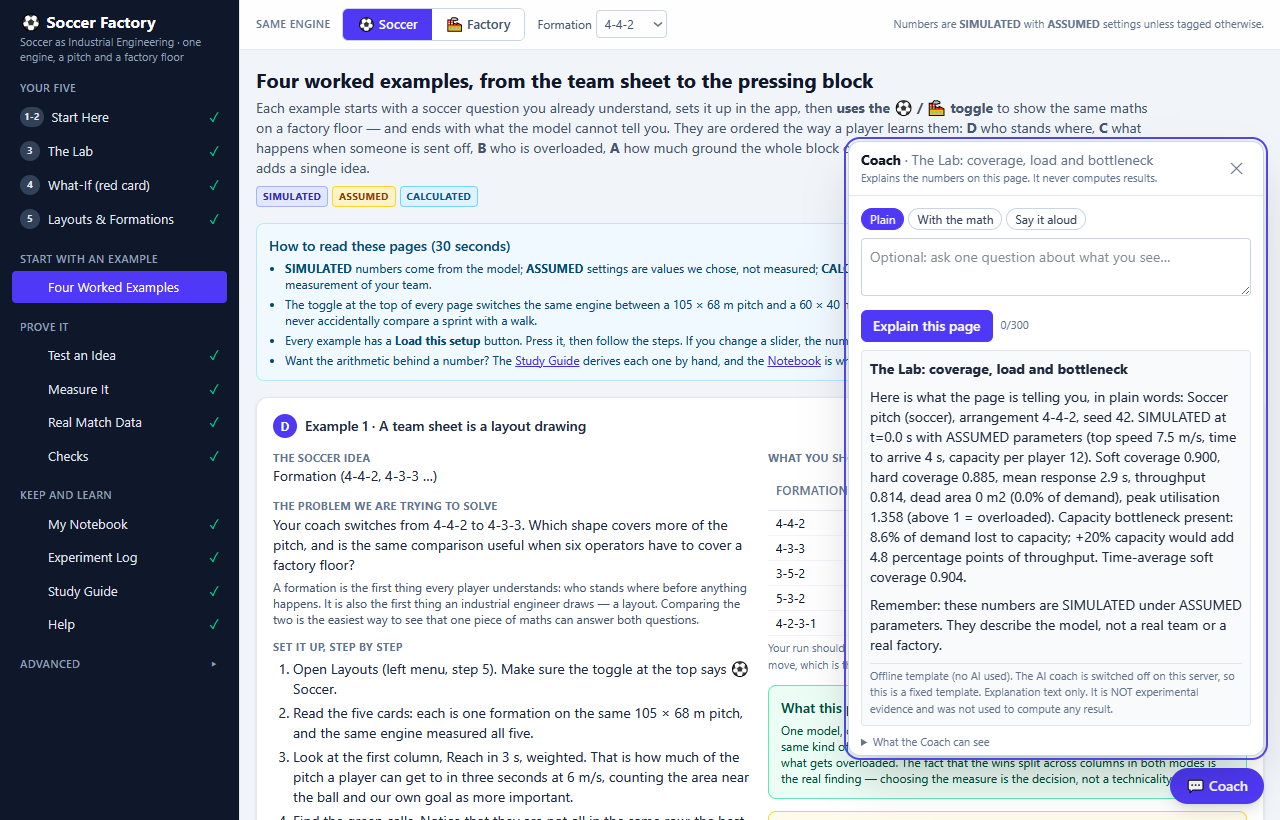
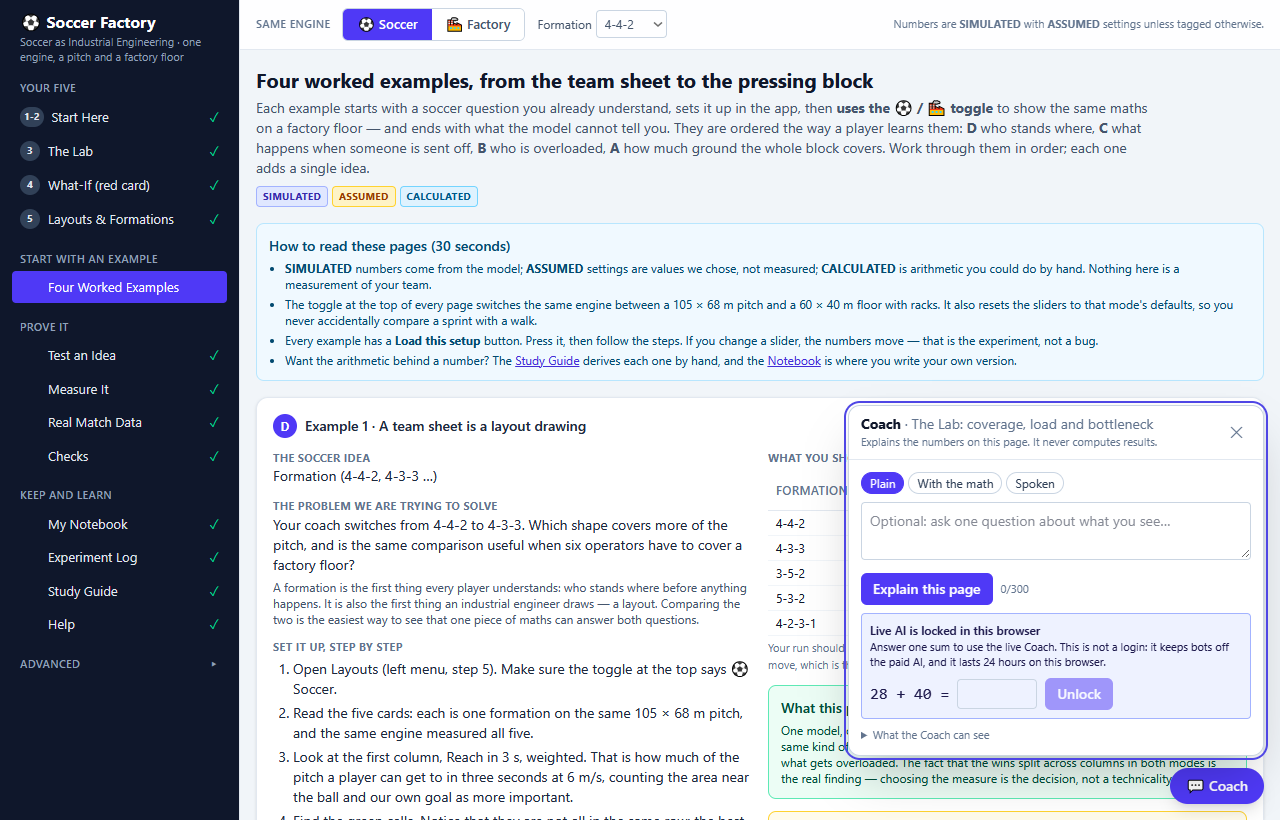
Remove presenter-style 'say this' callouts from the app, help docs and README

Changed region(s): [[0.6562, 0.1524, 1.0, 0.9146], [0.9688, 0.3354, 1.0, 0.3659]]

diff --git a/web/pages/examples.tsx b/web/pages/examples.tsx
@@ -46,7 +46,7 @@ const EXAMPLES: Example[] = [
       "Flip the toggle to 🏭 Factory. Same page, same five columns — but now the rows are three ways to lay out six stations, and product has to walk between them.",
       "Read Product flow distance: the linear line moves a unit of product 45.0 m, the U-shaped cell 73.5 m, the scattered layout 194.9 m. The straight-line distance is printed next to it, so you can see the racks forcing a detour.",
       "Change Operators start as to Depot-based. The wins split: linear still moves product least and covers most, but the scattered layout needs the least capacity (peak utilisation 0.91 against 1.42) and has the most dead area (438 m²). There is no longer one winner.",
-      "Say the sentence out loud: “the linear line moves the product less, the scattered layout keeps the operators less overloaded.” That sentence is the actual engineering answer.",
+      "Put that in one sentence: “the linear line moves the product less, the scattered layout keeps the operators less overloaded.” That sentence is the actual engineering answer.",
     ],
     seesHeaders: ["Formation", "Reach in 3 s", "Coverage", "Throughput", "Peak utilisation"],
     sees: [
@@ -121,7 +121,7 @@ const EXAMPLES: Example[] = [
       "Flip the toggle to 🏭 Factory and read the same panel. At factory defaults there is no bottleneck: peak utilisation 0.795, and only 1.2% of demand is short — all of it access-limited.",
       "Drag Capacity per operator down to about 4. Peak utilisation becomes 1.939, 44.2% of demand is lost to capacity, and 20% more capacity is worth 10.9 points.",
       "Notice the label changed (capacity per player → per operator) while the arithmetic did not. That is the whole point of the toggle.",
-      "Say which constraint you are looking at before you say what to do: more capacity, or better positions? The app refuses to answer that for you, on purpose.",
+      "Name the constraint before deciding what to do: more capacity, or better positions? The app refuses to answer that for you, on purpose.",
     ],
     seesHeaders: ["Setting", "Peak utilisation", "Lost to capacity", "20% more capacity buys"],
     sees: [
@@ -305,12 +305,12 @@ export default function ExamplesPage() {
         </p>
       </Card>
 
-      <Card title="Say it in one breath (the sentence to remember)">
+      <Card title="The sentence to remember">
         <p className="text-sm text-slate-800">
           “Soccer and a factory are both space with moving agents, jobs arriving and limits on how fast things get done — so the same coverage, load and disturbance maths answers both. A real factory also has queues, an order of operations and safety rules, so I would measure before I trusted any of these numbers.”
         </p>
         <p className="mt-2 text-xs text-slate-500">
-          Tick it off in <Link href="/notebook" className="text-indigo-700 underline">My Notebook</Link> once you can say it without reading.
+          Tick it off in <Link href="/notebook" className="text-indigo-700 underline">My Notebook</Link> once you can explain it without reading.
         </p>
         <div className="mt-3 flex flex-wrap gap-2">
           <Link href="/" className="rounded border border-slate-300 px-3 py-1 text-xs text-slate-700 hover:bg-slate-50">

diff --git a/web/pages/guide.tsx b/web/pages/guide.tsx
@@ -117,7 +117,7 @@ function IdeaView({ idea, done, onDone }: { idea: Idea; done: boolean; onDone: (
 
       <Card title="9 · Prompts for an AI tutor (copy, paste into any chat)">
         <p className="mb-2 text-xs text-slate-600">
-          Each prompt tells the AI not to invent data. Use it to <b>practise explaining</b>, not to produce text you submit: you should be able to re-derive and say everything above yourself.
+          Each prompt tells the AI not to invent data. Use it to <b>practise explaining</b>, not to produce text you submit: you should be able to re-derive and explain everything above yourself.
         </p>
         <div className="space-y-2">
           {idea.prompts.map((p) => (
@@ -142,7 +142,7 @@ function IdeaView({ idea, done, onDone }: { idea: Idea; done: boolean; onDone: (
         <Btn kind={done ? "ghost" : "primary"} onClick={onDone}>
           {done ? "✓ I can explain this (click to undo)" : "I can explain this without looking"}
         </Btn>
-        <span className="text-xs text-slate-500">Be honest: tick it only after you have said it out loud.</span>
+        <span className="text-xs text-slate-500">Be honest: tick it only when you can explain it without notes.</span>
       </div>
     </div>
   );
@@ -181,7 +181,7 @@ export default function GuidePage() {
         title="Study Guide: 14 ideas, one soccer scene each"
         sub={
           <>
-            Read an idea, do the click it suggests, derive the formula, then say it out loud. The first five are <b>Your Five</b> (the ones to own). The other nine are the proof: how you test an idea, stress it, optimise it and measure it. {done.length} of {IDEAS.length} ticked.
+            Read an idea, do the click it suggests, derive the formula, then explain it in your own words. The first five are <b>Your Five</b> (the ones to own). The other nine are the proof: how you test an idea, stress it, optimise it and measure it. {done.length} of {IDEAS.length} ticked.
           </>
         }
       />

diff --git a/web/content/docs.ts b/web/content/docs.ts
@@ -361,7 +361,7 @@ export const INTERVIEW = [
   ["Why facility-layout mode?", "To show methodological transfer and to find where the analogy breaks (queues, precedence, safety, adversaries)."],
   ["What did you discover?", "Open the Hypotheses page, run H1–H5 in both modes, and report exactly the verdicts you see with their intervals. Mention that results are simulated under assumed parameters. Do not state any number you have not just seen on screen."],
   ["What surprised you?", "Use something true from your runs. Example prompts: a hypothesis that was NOT supported, a direction opposite to expectation, the large interaction in H4 that came from two disturbances overlapping in space, or the CV error being dominated by calibration rather than pixel noise."],
-  ["What failed?", "Say it plainly: e.g. a hypothesis the data did not support, missing detections when markers touch, or that physical/public-data validation is not done yet. A failed hypothesis with a good design is a result."],
+  ["What failed?", "Be plain: e.g. a hypothesis the data did not support, missing detections when markers touch, or that physical/public-data validation is not done yet. A failed hypothesis with a good design is a result."],
   ["What would you improve?", "Calibrate speed/acceleration/response parameters from public tracking data; add queues and precedence to the facility mode; run the physical experiment; try pitch-control with ball flight; network max-flow bottlenecks."],
   ["What are the limitations?", "Assumed parameters, straight-line kinematics, independence assumption in coverage, grid-based obstacle paths, no real-world validation yet, heuristic optimisation, and the analogy boundaries."],
   ["What did you personally learn?", "Write this yourself, honestly. Suggested angles: how definitions change conclusions, why validation differs from verification, how to design an experiment before seeing results."],

diff --git a/web/pages/layouts.tsx b/web/pages/layouts.tsx
@@ -279,7 +279,7 @@ export default function LayoutsPage() {
               </li>
             </>
           )}
-          <li>Green = best of these on that measure. If the wins are split, say so: “this shape covers more, that one keeps the players less overloaded”.</li>
+          <li>Green = best of these on that measure. If the wins are split, the answer is a comparison: “this shape covers more, that one keeps the players less overloaded”.</li>
           {sweep && <li className="font-medium text-amber-800">One option ({sweep}) wins every measure with these settings. Do not stop there: change the seed or the arrangement and see whether it still wins. A result that depends on an assumption is a finding about the assumption.</li>}
         </ul>
         <div className="mt-3">
@@ -301,7 +301,7 @@ export default function LayoutsPage() {
         </div>
       </Card>
 
-      <Callout kind="warn" title="Where soccer and a factory are NOT the same (say this before anyone asks)">
+      <Callout kind="warn" title="Where soccer and a factory are NOT the same">
         <ul className="list-disc space-y-0.5 pl-5 text-xs">
           <li>A factory has an order of steps (S2 cannot start before S1 finishes) and queues of work waiting. This model has neither: demand just appears around the active job.</li>
           <li>Opponents are clever and react. Rush orders and breakdowns are not.</li>

diff --git a/web/content/study-guide.ts b/web/content/study-guide.ts
@@ -35,7 +35,7 @@ function mk(idea: string, appDef: string, factoryHint: string): Prompt[] {
   return [
     {
       label: "Explain it with my own soccer example",
-      text: `I am a high-school soccer player learning Industrial Engineering. The idea is "${idea}". My app defines it like this: ${appDef} First ask me for one real soccer situation I know well (my position, a moment from a game). Then explain the idea using only that situation, in plain language I could say out loud, and show any arithmetic step by step with numbers I supply. ${RULES}`,
+      text: `I am a high-school soccer player learning Industrial Engineering. The idea is "${idea}". My app defines it like this: ${appDef} First ask me for one real soccer situation I know well (my position, a moment from a game). Then explain the idea using only that situation, in plain language I could explain to a teammate, and show any arithmetic step by step with numbers I supply. ${RULES}`,
     },
     {
       label: "Quiz me / find holes in my explanation",

diff --git a/web/pages/notebook.tsx b/web/pages/notebook.tsx
@@ -118,7 +118,7 @@ export default function NotebookPage() {
               </label>
             </div>
             <label className="mt-2 flex items-center gap-2 text-xs text-slate-700">
-              <input type="checkbox" checked={e.done} onChange={(ev) => set(String(f.n), { done: ev.target.checked })} /> I can re-derive this and say it out loud without looking.
+              <input type="checkbox" checked={e.done} onChange={(ev) => set(String(f.n), { done: ev.target.checked })} /> I can re-derive this and explain it without looking.
             </label>
           </Card>
         );

diff --git a/web/components/Coach.tsx b/web/components/Coach.tsx
@@ -153,7 +153,7 @@ export function CoachPanel({ open, onClose }: { open: boolean; onClose: () => vo
             [
               ["highschool", "Plain"],
               ["technical", "With the math"],
-              ["interview", "Say it aloud"],
+              ["interview", "Spoken"],
             ] as const
           ).map(([k, l]) => (
             <button key={k} onClick={() => setAudience(k)} className={`rounded-full border px-2 py-0.5 ${audience === k ? "border-indigo-600 bg-indigo-600 text-white" : "border-slate-300 bg-white text-slate-700"}`}>

diff --git a/tools/build-showcase.py b/tools/build-showcase.py
@@ -15,13 +15,13 @@ SRC, OUT = sys.argv[1], sys.argv[2]
 MEDIA = {
     "soccer-factory-start-soccer.png": (639, "https://nashvilleaiclub.com/wp-content/uploads/sites/4/2026/10/soccer-factory-start-soccer.png"),
     "soccer-factory-examples.png": (640, "https://nashvilleaiclub.com/wp-content/uploads/sites/4/2026/10/soccer-factory-examples.png"),
-    "soccer-factory-formations-soccer.png": (652, "https://nashvilleaiclub.com/wp-content/uploads/sites/4/2026/10/soccer-factory-formations-soccer-v3.png"),
-    "soccer-factory-layouts-factory.png": (653, "https://nashvilleaiclub.com/wp-content/uploads/sites/4/2026/10/soccer-factory-layouts-factory-v3.png"),
+    "soccer-factory-formations-soccer.png": (656, "https://nashvilleaiclub.com/wp-content/uploads/sites/4/2026/10/soccer-factory-formations-soccer-v4.png"),
+    "soccer-factory-layouts-factory.png": (657, "https://nashvilleaiclub.com/wp-content/uploads/sites/4/2026/10/soccer-factory-layouts-factory-v4.png"),
     "soccer-factory-whatif-redcard.png": (654, "https://nashvilleaiclub.com/wp-content/uploads/sites/4/2026/10/soccer-factory-whatif-redcard-v3.png"),
     "soccer-factory-whatif-breakdown.png": (655, "https://nashvilleaiclub.com/wp-content/uploads/sites/4/2026/10/soccer-factory-whatif-breakdown-v3.png"),
     "soccer-factory-lab-soccer.png": (645, "https://nashvilleaiclub.com/wp-content/uploads/sites/4/2026/10/soccer-factory-lab-soccer.png"),
     "soccer-factory-start-factory.png": (646, "https://nashvilleaiclub.com/wp-content/uploads/sites/4/2026/10/soccer-factory-start-factory.png"),
-    "soccer-factory-coach-gate.png": (647, "https://nashvilleaiclub.com/wp-content/uploads/sites/4/2026/10/soccer-factory-coach-gate.png"),
+    "soccer-factory-coach-gate.png": (658, "https://nashvilleaiclub.com/wp-content/uploads/sites/4/2026/10/soccer-factory-coach-gate-v4.png"),
 }
 
 DEMO = "https://nashvilleaiclub.com/demo/abanerji/soccer-factory/#/examples"

diff --git a/docs/01-start-here.md b/docs/01-start-here.md
@@ -20,31 +20,31 @@ Use the **Soccer | Factory** switch at the top when a step says so.
 
 1. **Start Here (#/)** - Drag the players around the pitch, or press **Bunch them up**. Move the **Time to arrive** slider.
    *Notice:* the **Pitch reached** number changes as you move players and change the reach radius (speed x time). The red ring marks the worst-served spot.
-   *Say aloud:* "Coverage is the share of the pitch someone can get to in time." **(Reach)**
+   *The idea:* "Coverage is the share of the pitch someone can get to in time." **(Reach)**
 2. **Start Here** - Click the **2 · Importance** tab. Drag the ball far from your players.
    *Notice:* red tint means important and not reached; the **Important spots reached** number and the plain **Pitch reached** number can disagree.
-   *Say aloud:* "Not all space is equal, so I count the part that matters." **(Importance)**
+   *The idea:* "Not all space is equal, so I count the part that matters." **(Importance)**
 3. **The Lab (#/lab)** - It runs by itself. Press **Play** to watch the 60-second simulation, then switch the overlay menu: Coverage, Demand, Dead cells.
    *Notice:* where dead zones sit compared with where demand is high.
-   *Say aloud:* "A dead zone is space nobody reaches in time." **(Reach + Importance)**
+   *The idea:* "A dead zone is space nobody reaches in time." **(Reach + Importance)**
 4. **The Lab** - Move the three main sliders one at a time: **Top speed**, **Time to arrive (T\*)**, **Capacity per player**. The page updates as you move them.
    *Notice:* which slider changes the metrics most, and which hardly matters.
-   *Say aloud:* "Changing one thing at a time tells me what caused the change." **(Constraint)**
+   *The idea:* "Changing one thing at a time tells me what caused the change." **(Constraint)**
 5. **The Lab** - Choose the **Bottleneck** overlay and read the **Bottleneck explanation** box.
    *Notice:* which player or area is overloaded while others idle.
-   *Say aloud:* "The bottleneck is where extra effort elsewhere does not help." **(Constraint)**
+   *The idea:* "The bottleneck is where extra effort elsewhere does not help." **(Constraint)**
 6. **What-If (red card) (#/whatif)** - Choose *player unavailable* and press **Run**.
    *Notice:* the three stages: baseline, disturbance, recovery. How far does it drop? Does it come back?
-   *Say aloud:* "Resilience is what I lose and how fast I get it back." **(Shock)**
+   *The idea:* "Resilience is what I lose and how fast I get it back." **(Shock)**
 7. **What-If** - Try another disturbance (region blocked, demand spike, slowdown, tempo).
    *Notice:* different shocks hurt different metrics.
-   *Say aloud:* "A system can be robust to one shock and fragile to another." **(Shock)**
+   *The idea:* "A system can be robust to one shock and fragile to another." **(Shock)**
 8. **Factory Layouts (#/layouts)** - Compare the linear flow line, the U-shaped cell and the functional (scattered) layout.
    *Notice:* which layout has the shortest travel or the least overload, and in which metric.
-   *Say aloud:* "Same engine, different floor; the layout changes the result." **(Transfer)**
+   *The idea:* "Same engine, different floor; the layout changes the result." **(Transfer)**
 9. **Test an Idea (#/hypotheses)** - Press **Run** on H1-H5. Read each verdict.
    *Notice:* verdicts are computed after you run, from rules written before. Some will be "not supported", and that is a valid result.
-   *Say aloud:* "The pass mark was fixed before the run, so the answer cannot be bent to fit." **(all)**
+   *The idea:* "The pass mark was fixed before the run, so the answer cannot be bent to fit." **(all)**
 10. **My Notebook (#/notebook)** - For each of Your Five, write your own result, your own surprise and your own limit. Use only what you ran. Frames:
     - "In my run, [metric] was [your number] when [setting]."
     - "I was surprised that [what you actually saw]."
@@ -59,11 +59,11 @@ Do not copy numbers from anyone else. If you cannot fill a blank, go back and ru
 | 0:00 | **Start Here**: drag two players, move the Time to arrive slider, open the Importance tab | Reach, Importance |
 | 1:00 | **The Lab**: show the Bottleneck overlay and its explanation | Constraint |
 | 2:00 | **What-If**: player unavailable, point at baseline -> disturbance -> recovery | Shock |
-| 2:30 | Flip to **Factory** or open **Factory Layouts**, say one sentence about where the analogy breaks | Transfer |
+| 2:30 | Flip to **Factory** or open **Factory Layouts**; one sentence on where the analogy breaks | Transfer |
 
 ## Rules for yourself
 
-- **Simulated, not measured.** Say "in the simulation, under my assumed settings".
+- **Simulated, not measured.** The honest phrasing is "in the simulation, under my assumed settings".
 - **Be able to re-derive it.** If you show a metric, you should be able to explain how it is computed. The **Study Guide (#/guide)** and **Build Notes (#/buildnotes)** have the definitions.
 - **The Coach explains, it does not compute.** It only explains numbers the app gives it.
 - **Save what matters.** Runs you want to keep go to the **Experiment Log (#/experiments)**.

diff --git a/docs/02-soccer-to-factory.md b/docs/02-soccer-to-factory.md
@@ -47,7 +47,6 @@ Offside has no clean factory counterpart, so the lab does not map it. Do not for
 
 ## Where the analogy breaks
 
-Say this out loud when you present. It is part of the work, not a weakness.
 
 - **Adaptive opponents.** A defending team reacts to you. A factory floor has no one trying to beat your layout. The simulation's demand does not fight back.
 - **Queues.** Factory jobs wait in lines with real queueing behaviour. The soccer model does not treat waiting the same way, so queueing results do not transfer unchanged.
@@ -57,6 +56,6 @@ Say this out loud when you present. It is part of the work, not a weakness.
 - **Agents differ.** Players have fatigue, skill and judgement. A machine's failure and repair patterns are different again.
 - **Parameters are assumed.** The values in the lab are chosen, not measured from a particular plant. A real project would start by measuring (see the **Factory Field Guide**).
 
-## A sentence you can defend
+## The short version
 
 "The same coverage, load and disturbance mathematics applies to both settings, so soccer is a good place to learn it. A real factory also has queues, ordering and safety rules, so I would measure before trusting any number."

diff --git a/IMPROVEMENTS.md b/IMPROVEMENTS.md
@@ -25,7 +25,7 @@ easy to hard. This file is the record of that merge and the learning design behi
    hand-checkable arithmetic → the calculus version (folded away) → what it does NOT tell you →
    3 self-check questions → 3 copyable tutor prompts (with "do not invent data" rules built in).
    The first five map to Your Five; the rest are the proof machinery. Tick "I can explain this"
-   only after saying it out loud.
+   only when the student can explain it without notes.
 6. **My Notebook = your own words.** The 90-second script is composed only from what the student
    types; empty fields stay as `[blanks]` and are counted. Nothing is written for them.
 7. **Help = six plain-language documents** (10-minute first session, soccer↔factory dictionary,

diff --git a/README.md b/README.md
@@ -94,7 +94,7 @@ page work without the gate.
   the Coach into a fixed offline template that says so.
 - The key never reaches the browser.
 
-## What is real and what is not (say this out loud)
+## What is real and what is not
 
 - Every result is **SIMULATED** under **ASSUMED** parameters. Nothing is claimed as measured.
 - **Real Match Data** turns a Metrica-format tracking CSV into ESTIMATED speed/acceleration limits
